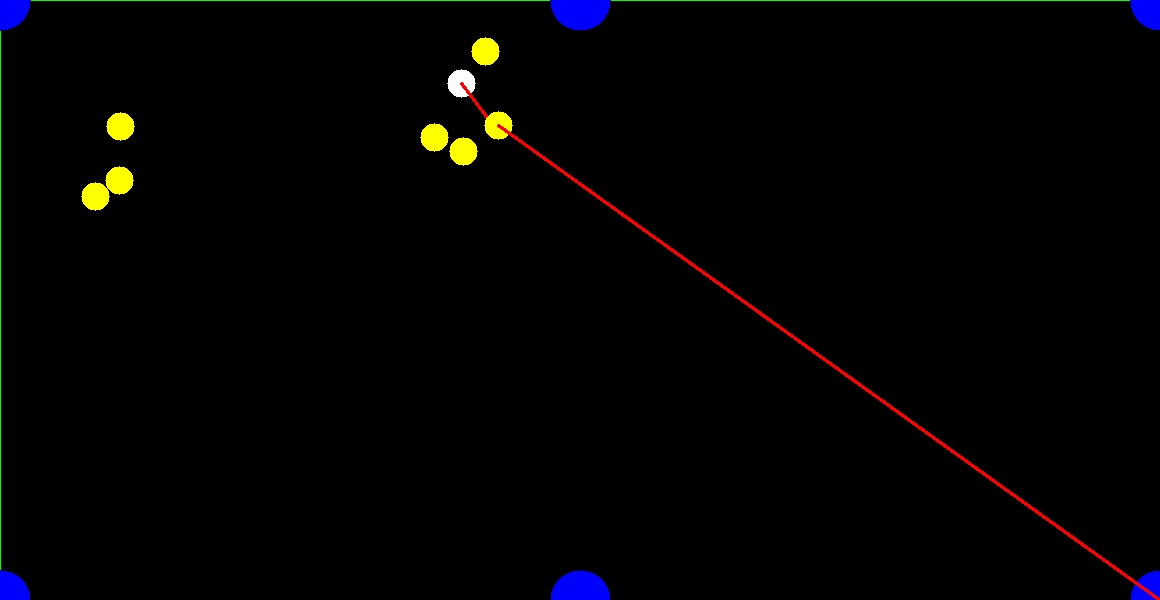
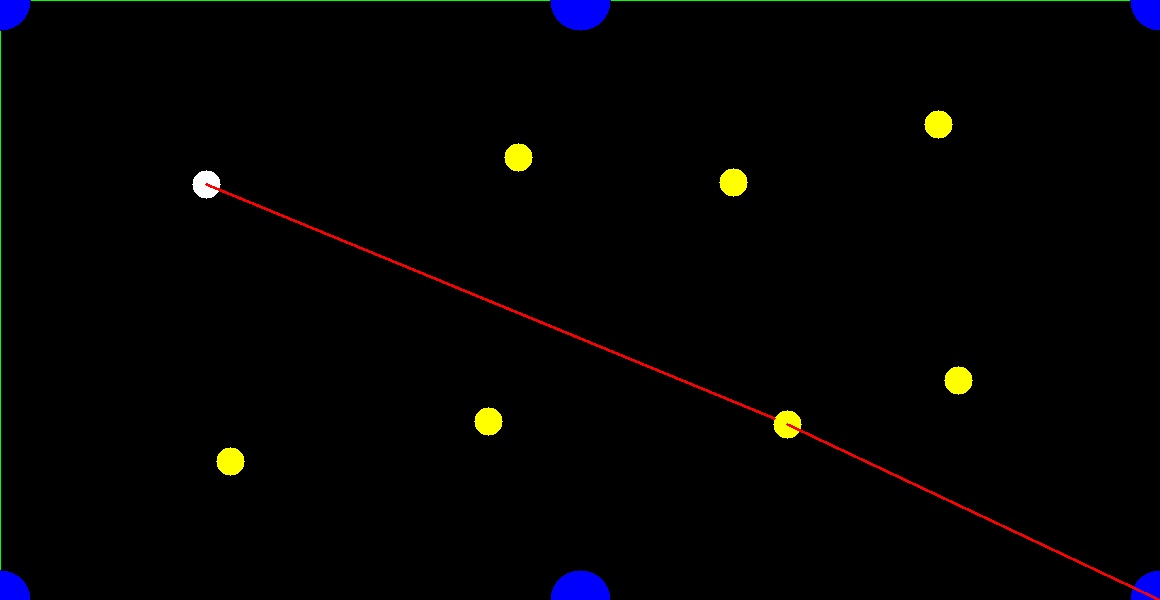
shot calculation working with live video

diff --git a/pool_ball_rec_2.py b/pool_ball_rec_2.py
@@ -10,15 +10,18 @@ import matplotlib.pyplot as plt
 import Indexer
 import time
 import shot_calculation
+import math
 
 big_list = [[-1,-1,-1,-1,-1,-1,-1,-1,-1,-1,-1,-1,-1,-1,-1,-1],
             [-1,-1,-1,-1,-1,-1,-1,-1,-1,-1,-1,-1,-1,-1,-1,-1]]
+BLUE = (255,0,0)        #BGR Color Representation of the Color Blue
+GREEN = (0,255,0)       #BGR Color Representation of the Color Green
+RED = (0,0,255) 
 
 def DetectPoolBalls():
-    #success,img = imcap.read()
-    img = LoadImage('img/pool_balls.jpeg')
-    #img = img[180:780,370:1530]
-    img = LoadImage('img/pool_balls.jpeg')
+    success,img = imcap.read()
+    #img = LoadImage('img/pool_balls.jpeg')
+    img = img[180:780,370:1530]
     #Now the table is cropped and warped, lets find the balls
     hsv = ToHSV(img)
     
@@ -26,10 +29,15 @@ def DetectPoolBalls():
     
     contours = GetContours(hsv, lower_color, upper_color,15)
         
-    centers = FindTheBalls(img, contours)
+    centers = FindTheBalls(img, contours, similarity_threshold=18)
     #print(len(centers))
     cue, solids, eight_ball, stripes = FindTheColors(img,centers)
+    print(cue)
+    print(solids)
+    print(eight_ball) 
+    print(stripes)
     final_list = BuildTheList(cue, solids, eight_ball, stripes)
+    print(final_list)
     return final_list
 
 def LoadImage(filename):
@@ -65,119 +73,6 @@ def GetClothColor(hsv,search_width=45):
     lower_color = np.array([h_max-search_width,s_max-search_width,v_max-search_width])
     upper_color = np.array([h_max+search_width,s_max+search_width,v_max+search_width])
     return lower_color, upper_color
-
-
-def MaskTableBed(contours):
-    """
-    Mask out the table bed, assuming that it will be the biggest contour.
-    """
-            
-    #The largest area should be the table bed    
-    areas = []    
-    for c in contours:
-        areas.append(cv2.contourArea(c))
-    
-    #return the contour that delineates the table bed
-    largest_contour = Indexer.get_index_of_max(areas)
-    return contours[largest_contour[0]]
-
-def distbetween(x1,y1,x2,y2):
-    """
-    Compute the distance between points (x1,y1) and (x2,y2)
-    """
-
-    return np.sqrt((x2-x1)*(x2-x1)+(y2-y1)*(y2-y1))
-
-def Get_UL_Coord(contour,pad=10):
-    """
-    Get the upper left coordinate of the contour.
-    """
-    dists = []
-    for c in contour:
-        dists.append(distbetween(c[0][0],c[0][1],0,0))
-
-    return (contour[Indexer.get_index_of_min(dists)[0]][0][0]-pad,contour[Indexer.get_index_of_min(dists)[0]][0][1]-pad)
-    
-def Get_UR_Coord(contour,imgXmax, pad=10):
-    """
-    Get the upper right coordinate of the contour.
-    """
-    dists = []
-    for c in contour:
-        dists.append(distbetween(c[0][0],c[0][1],imgXmax,0))
-
-    return (contour[Indexer.get_index_of_min(dists)[0]][0][0]+pad,contour[Indexer.get_index_of_min(dists)[0]][0][1]-pad)
-
-def Get_LL_Coord(contour,imgYmax, pad=10):
-    """
-    Get the lower left coordinate of the contour.
-    """
-    dists = []
-    for c in contour:
-        dists.append(distbetween(c[0][0],c[0][1],0,imgYmax))
-
-    return (contour[Indexer.get_index_of_min(dists)[0]][0][0]-pad,contour[Indexer.get_index_of_min(dists)[0]][0][1]+pad)
-    
-def Get_LR_Coord(contour,imgXmax,imgYmax, pad=10):    
-    """
-    Get the lower right coordinate of the contour.
-    """
-    dists = []
-    for c in contour:
-        dists.append(distbetween(c[0][0],c[0][1],imgXmax,imgYmax))
-
-    return (contour[Indexer.get_index_of_min(dists)[0]][0][0]+pad,contour[Indexer.get_index_of_min(dists)[0]][0][1]+pad)
-
-def TransformToOverhead(img,contour):
-    """
-    Get the corner coordinates of the table bed by finding the minumum
-    distance to the corners of the image for each point in the contour.
-    
-    Transform code is built upon code from: http://www.pyimagesearch.com/2014/05/05/building-pokedex-python-opencv-perspective-warping-step-5-6/ 
-    """
-
-    #get dimensions of image
-    height, width, channels = img.shape 
-
-    #find the 4 corners of the table bed
-    UL = Get_UL_Coord(contour)
-    UR = Get_UR_Coord(contour,width)  
-    LL = Get_LL_Coord(contour,height)  
-    LR = Get_LR_Coord(contour,width,height)  
-    
-    #store the coordinates in a numpy array    
-    rect = np.zeros((4, 2), dtype = "float32")
-    rect[0]= [UL[0],UL[1]]
-    rect[1]= [UR[0],UR[1]]
-    rect[2]= [LR[0],LR[1]]
-    rect[3]= [LL[0],LL[1]]
-    
-    #get the width at the bottom and top of the image
-    widthA = distbetween(LL[0],LL[1],LR[0],LR[1])
-    widthB = distbetween(UL[0],UL[1],UR[0],UR[1])
-    
-    #choose the maximum width 
-    maxWidth = max(int(widthA), int(widthB))
-    maxHeight  = (maxWidth//2) #pool tables are twice as long as they are wide
-    
-    # construct our destination points which will be used to
-    # map the image to a top-down, "birds eye" view
-    dst = np.array([
-    	[0, 0],
-    	[maxWidth - 1, 0],
-    	[maxWidth - 1, maxHeight - 1],
-    	[0, maxHeight - 1]], dtype = "float32")
-     
-    # calculate the perspective transform matrix and warp
-    # the perspective to grab the screen
-    M = cv2.getPerspectiveTransform(rect, dst)
-    warp = cv2.warpPerspective(img, M, (maxWidth, maxHeight))    
-
-
-    plt.show()
-    
-    plt.show()
-    return warp    
 
 def GetContours(hsv, lower_color, upper_color,filter_radius):
     """
@@ -224,9 +119,9 @@ def FindTheBalls(img, contours, similarity_threshold=15):
         #if the contour is a similar shape to the circle it is likely to be a ball.
         if (d < diffs[0] * similarity_threshold):
             (x,y),radius = cv2.minEnclosingCircle(contours[i])
-    
-            cv2.circle(tmp_img,(int(x),int(y)),int(radius),(0,0,255),2)
-            centers.append((int(y),int(x), int(radius)))
+            if radius > 12:
+                cv2.circle(tmp_img,(int(x),int(y)),int(radius),(0,0,255),2)
+                centers.append((int(y),int(x), int(radius)))
 
     cv2.imshow('pool_ball_detect', tmp_img)
     #print(len(centers))
@@ -237,31 +132,60 @@ def FindTheColors(img, centers):
     solids = []
     cue = []
     eight_ball = []
+    new_tmp_centers = []
+    maxWhitePixels = -1
     for (centerX,centerY,radius) in centers:
         numOfWhitePixels = 0
         numOfBlackPixels = 0
+        numOfOtherPixels = 0
         maxX, maxY, ___ = img.shape
-        #print(centerX,centerY,radius)
+        print(centerX,centerY,radius)
+        #if centerY >900 and centerY < 1000:
+        #    print("startOfPixels")
+            #tmp_img = img[centerX - radius:centerX + radius,centerY - radius:centerY + radius]
+            
         for x in range(centerX - radius, centerX + radius):
             for y in range(centerY - radius, centerY + radius):
-                if (0 < x < maxX and 0 < y < maxY and img[x,y][0] > 200 and img[x,y][1] > 200 and img[x,y][2] > 200):
+                #if centerY >900 and centerY < 1000:
+                #    print(img[x,y][0], img[x,y][1], img[x,y][2])
+                if lengthOfLine(centerX,centerY,x,y) >radius:
+                    continue
+                if (0 < x < maxX and 0 < y < maxY and img[x,y][0] > 180 and img[x,y][1] > 180 and img[x,y][2] > 180):
                     numOfWhitePixels +=1
                 elif (0 < x < maxX and 0 < y < maxY and img[x,y][0] < 60 and img[x,y][1] < 60 and img[x,y][2] < 60):
                     numOfBlackPixels +=1
-        #(numOfWhitePixels, numOfBlackPixels)
-        if numOfBlackPixels > 10:
+                else:
+                    numOfOtherPixels +=1
+        #if centerY >900 and centerY < 1000:
+        #    print("endOfPixels")
+        print(numOfWhitePixels, numOfBlackPixels, numOfOtherPixels)
+        
+        if numOfBlackPixels > 100:
             eight_ball.append((centerY,centerX,radius))
             cv2.circle(img,(int(centerY),int(centerX)),int(radius),(0,0,0),2)
-        elif numOfWhitePixels > 50:
+        elif numOfWhitePixels > 500 and numOfWhitePixels > maxWhitePixels:
             cue.append((centerY,centerX,radius))
             cv2.circle(img,(int(centerY),int(centerX)),int(radius),(255,255,255),2)
-        elif numOfWhitePixels > 5:
+            if maxWhitePixels == -1:
+                maxWhitePixels = numOfWhitePixels
+            else:
+                tmp_x,tmp_y,tmp_rad = cue.pop()
+                cue.append((centerY,centerX,radius))
+                cv2.circle(img,(int(centerY),int(centerX)),int(radius),(255,255,255),2)
+                cv2.circle(img,(int(tmp_y),int(tmp_x)),int(tmp_rad),RED,2)
+                stripes.append((tmp_y,tmp_x,tmp_rad))
+                maxWhitePixels = numOfWhitePixels
+        elif numOfWhitePixels > 150:
             stripes.append((centerY,centerX,radius))
-            cv2.circle(img,(int(centerY),int(centerX)),int(radius),(0,0,255),2)
+            cv2.circle(img,(int(centerY),int(centerX)),int(radius),RED,2)
         else:
             solids.append((centerY,centerX,radius))
-            cv2.circle(img,(int(centerY),int(centerX)),int(radius),(0,255,0),2)
+            cv2.circle(img,(int(centerY),int(centerX)),int(radius),GREEN,2)
     cv2.imshow('colors_detected', img)
+    cue.sort(key = compare)
+    solids.sort(key = compare)
+    """eight_ball = eight_ball.sort()"""
+    stripes.sort(key = compare)
     return cue, solids, eight_ball, stripes
 
 def BuildTheList(cue, solids, eight_ball, stripes):
@@ -285,23 +209,18 @@ def BuildTheList(cue, solids, eight_ball, stripes):
         final_list[1][ball+9] = stripes[ball][1]
     return final_list
         
-        
+def lengthOfLine(x1,y1,x2,y2):
+    return math.sqrt((x2-x1)**2 +(y2-y1)**2)       
 
+def checkEquality(tempList, big_list):
+    for i in range(2):
+        for j in range(16):
+            if abs(tempList[i][j] - big_list[i][j])>3:
+                return False
+    return True
 
-def mse(img1, img2):
-   (h, w, x)= img1.shape
-   diff = cv2.subtract(img1, img2)
-   err = np.sum(diff**2)
-   mse = err/(float(h*w))
-   return mse
-
-#imcap = cv2.VideoCapture(0) 
-
-#success,img = imcap.read()
-
-#370, 200 1530, 800
-#img = img[180:780,370:1530]
-
+def compare(ball):
+  return ball[0]
 
 
 #to call from Devanks Code
@@ -309,26 +228,35 @@ def mse(img1, img2):
 def detect_changes(tempList):
 
     global big_list
-    if (tempList == big_list):
+    if (checkEquality(tempList,big_list)):
         return
     else:
         stablize = False
         while(not stablize):
             time.sleep(1)
+            print("stabilizing")
             newList = DetectPoolBalls()
-            if(newList == big_list):
+            if(checkEquality(tempList,big_list)):
                 stablize = True
             else:
                 big_list = newList
         shot_calculation.start_calc(big_list[0],big_list[1])
 
-
+imcap = cv2.VideoCapture(0) 
+final_list = DetectPoolBalls()
+final_list = DetectPoolBalls()
+final_list = DetectPoolBalls()
+final_list = DetectPoolBalls()
+final_list = DetectPoolBalls()
 while True:
     final_list = DetectPoolBalls()
     #print(final_list)
     detect_changes(final_list)
+    img = LoadImage('test.jpeg')
+    cv2.imshow('best_shot', img)
     #call Devank's function with my code
     if cv2.waitKey(10) & 0xFF == ord('q'):
         break
+    #break
 #imcap.release()
 cv2.destroyWindow('pool_ball_detect')
